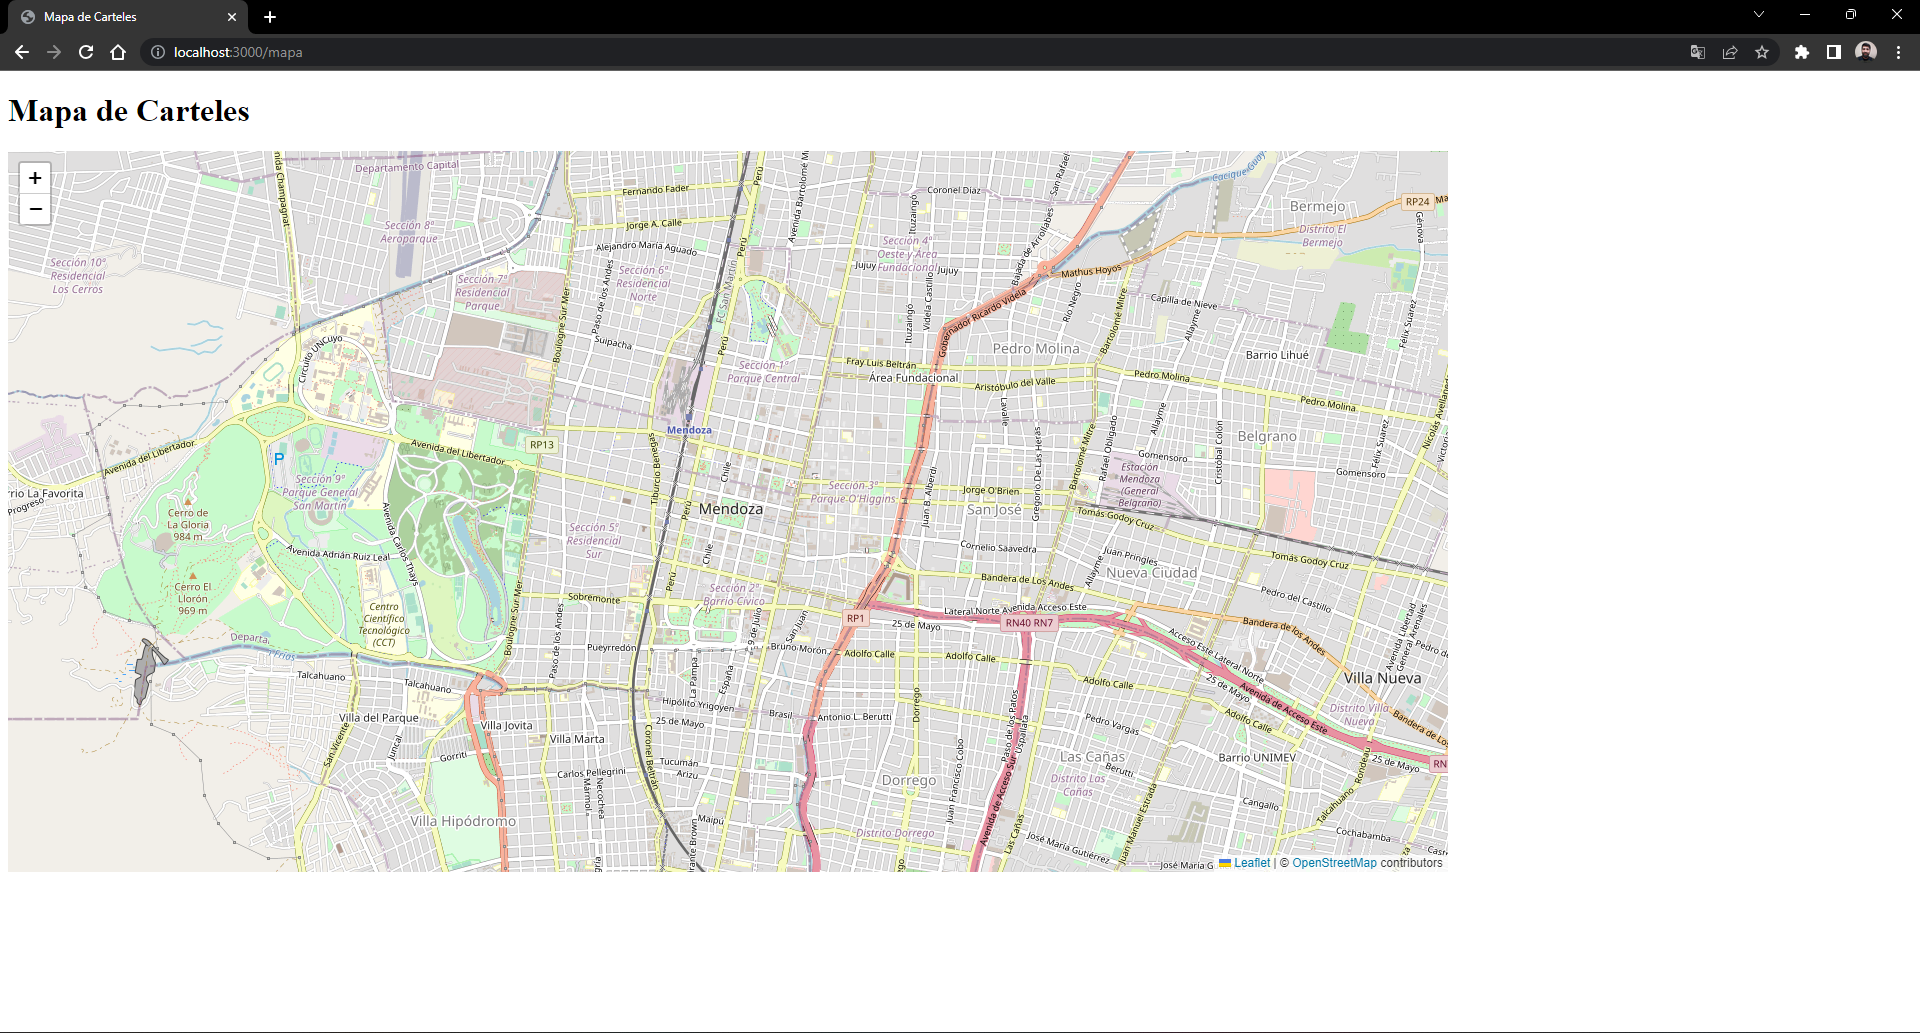
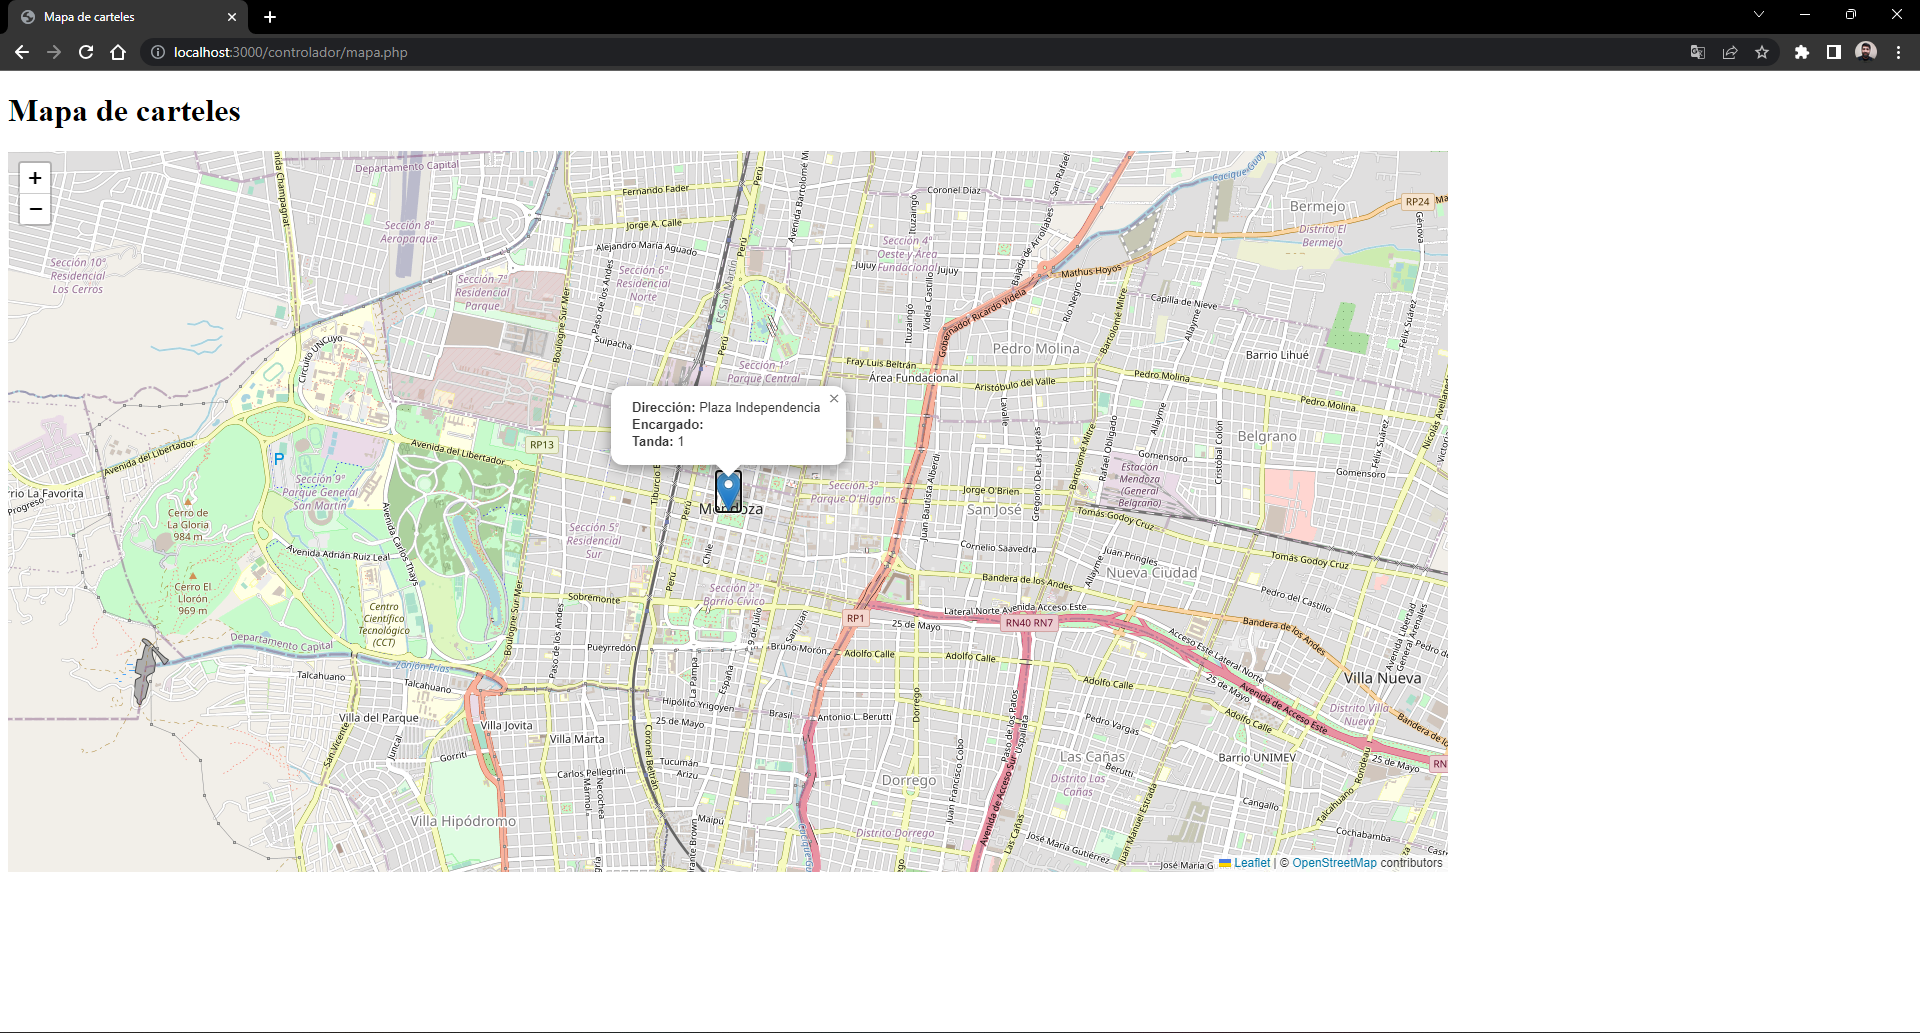
feat: edited map view (v1.1.4) * New information at markers from database

diff --git a/vista/mapa.php b/vista/mapa.php
@@ -32,7 +32,8 @@
                 foreach ($marcadores as $marcador) {
                 ?>
                     var marker = L.marker([<?= $marcador["latitud"] ?>, <?= $marcador["longitud"] ?>]).addTo(map);
-                    marker.bindPopup("<?= $marcador["direccion"] ?>");
+                    var popup = "<b>Dirección:</b> <?= $marcador["direccion"] ?><br><b>Encargado:</b> <?= $marcador["responsable"] ?><br><b>Tanda:</b> <?= $marcador["tanda"] ?>";
+                    marker.bindPopup(popup);
                 <?php
                 }
                 ?>
